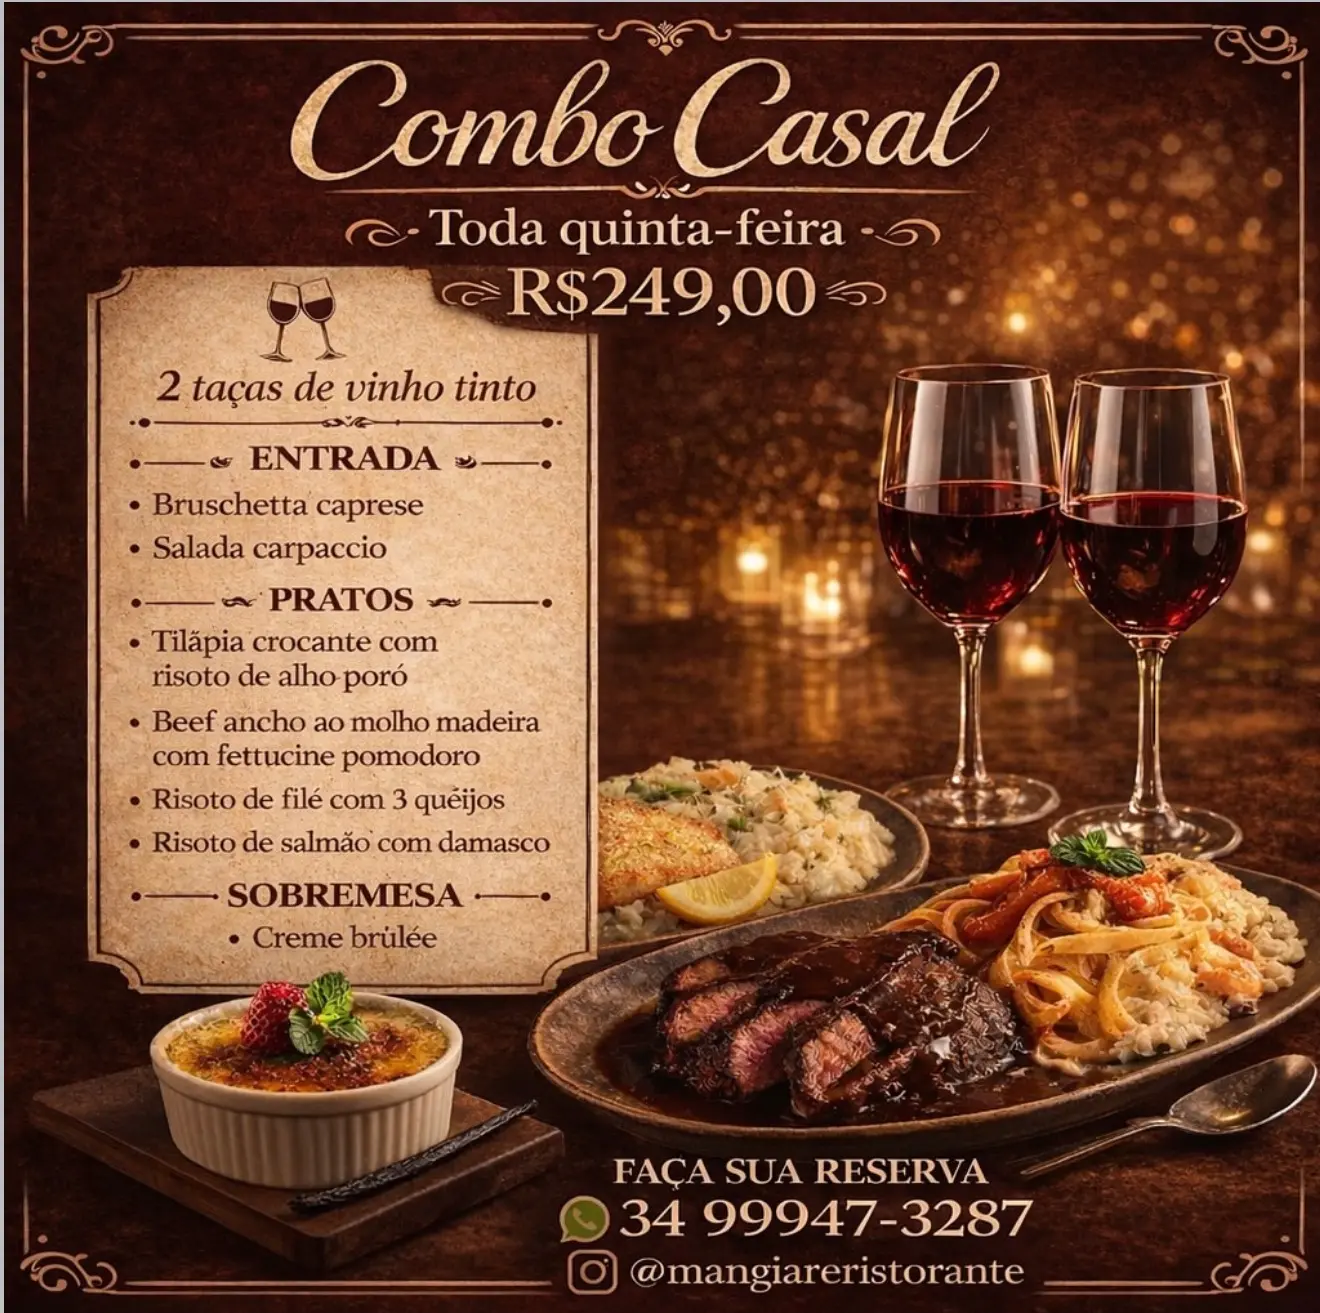
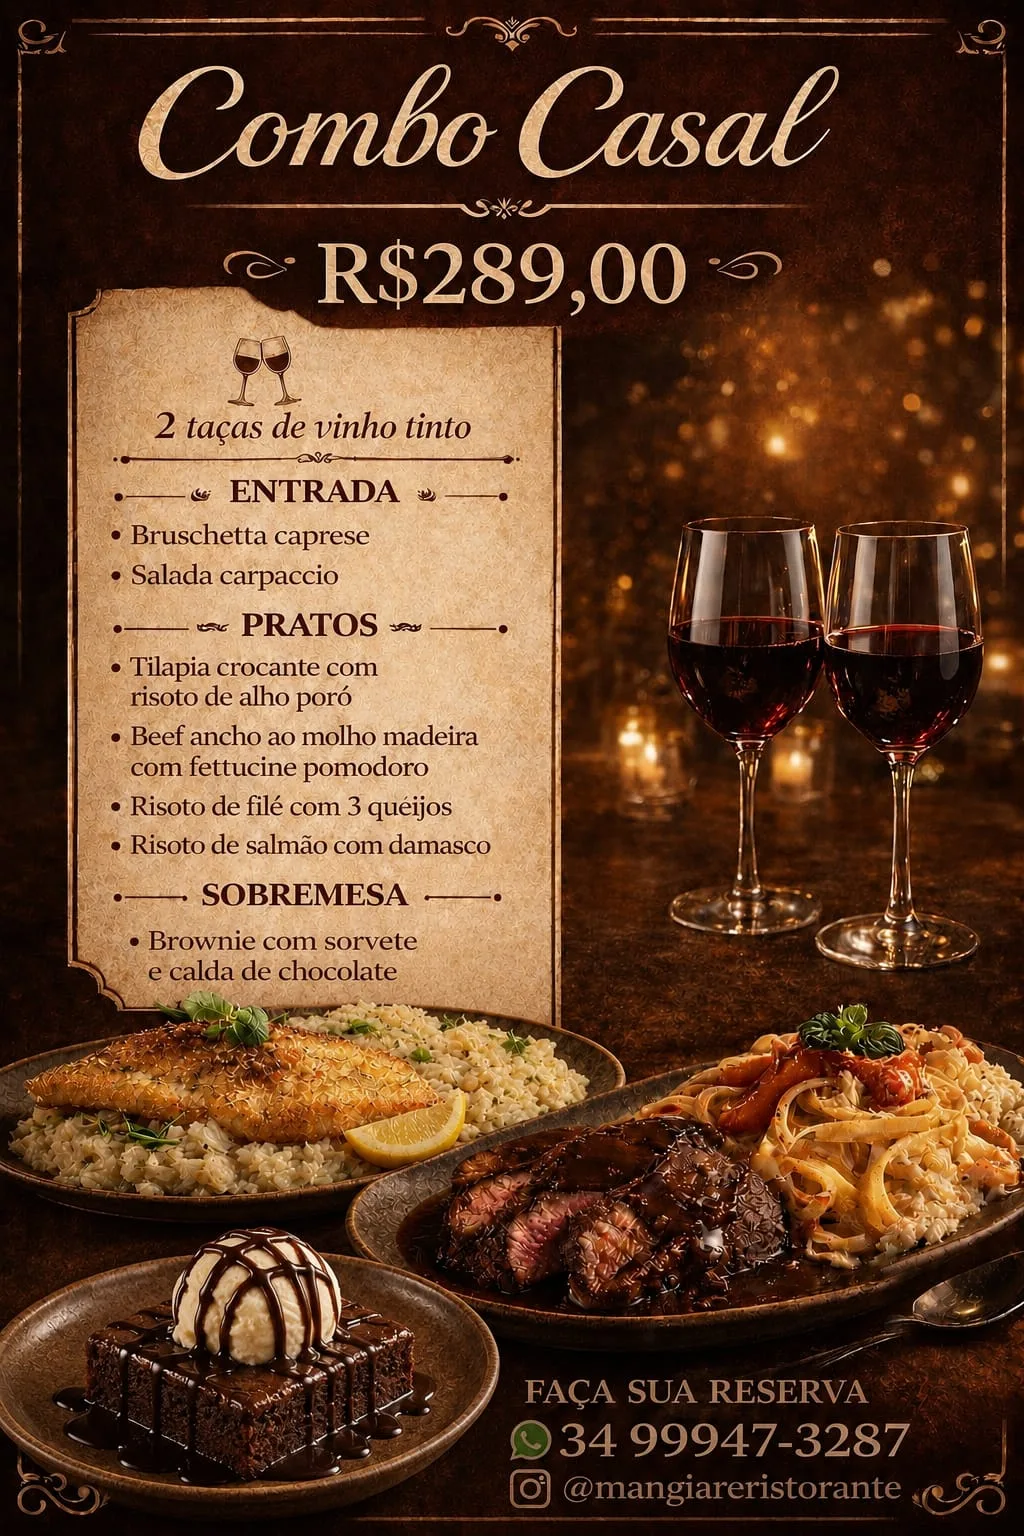
fix: corrigir promocoes conforme cartazes novos do Sergio
- Festival de Camarao: R$ 139,00 -> R$ 149,90 por pessoa
- Combo Casal: R$ 249,00 -> R$ 289,00
- Combo Casal: sobremesa mudou de creme brulee para brownie com sorvete
- Cartazes CAMARAO1/QUARTA/CASAL trocados pelas artes novas
- promo-card-img alinhado pelo topo: cartaz vertical nao corta mais o preco

Claude-Session: https://claude.ai/code/session_01UqP7nSxeVp1PRZ3z7thzFU

diff --git a/index.html b/index.html
@@ -173,7 +173,7 @@
 <section id="galeria" class="carousel-section">
   <div class="carousel-wrap" id="carouselWrap">
     <div class="carousel-slide"><img loading="lazy" src="JANTAR.webp" alt="Massa ao molho com filé e cogumelos, na chamada Jantar Romântico: o Mangiare é o cenário ideal"><div class="carousel-caption"><div class="carousel-caption-title">Jantar Romântico</div></div></div>
-    <div class="carousel-slide"><img loading="lazy" src="CAMARAO1.webp" alt="Cartaz da Quarta do Camarão: Festival de Camarões do Chef, menu completo por 139 reais por pessoa, toda quarta, com entrada, prato principal à escolha e sobremesa de cortesia"><div class="carousel-caption"><div class="carousel-caption-title">Festival de Camarões</div></div></div>
+    <div class="carousel-slide"><img loading="lazy" src="CAMARAO1.webp" alt="Cartaz da Quarta do Camarão: Festival de Camarões do Chef, menu completo por 149 reais e 90 centavos por pessoa, toda quarta, com entrada, prato principal à escolha e sobremesa de cortesia"><div class="carousel-caption"><div class="carousel-caption-title">Festival de Camarões</div></div></div>
     <div class="carousel-slide"><img loading="lazy" src="CARNES.webp" alt="Bife grelhado acompanhado de massa ao molho branco, na chamada Carnes Selecionadas"><div class="carousel-caption"><div class="carousel-caption-title">Mio Mangiare</div></div></div>
     <div class="carousel-slide"><img loading="lazy" src="SABOR.webp" alt="Fettuccine com medalhão de filé, na chamada Sabor da Itália: experiência única"><div class="carousel-caption"><div class="carousel-caption-title">Saborear Momentos</div></div></div>
     <div class="carousel-slide"><img loading="lazy" src="CELEBRE.webp" alt="Taça de vinho tinto sendo servida, na chamada Celebre Momentos: a harmonia perfeita entre pratos e vinhos"><div class="carousel-caption"><div class="carousel-caption-title">Celebre Momentos</div></div></div>
@@ -182,12 +182,12 @@
     <div class="carousel-slide"><img loading="lazy" src="ENCONTRA.webp" alt="Bife ao molho com arroz e batatas, na chamada Onde o sabor encontra a sofisticação"><div class="carousel-caption"><div class="carousel-caption-title">Encontros Especiais</div></div></div>
     <div class="carousel-slide"><img loading="lazy" src="MOMENTOS.webp" alt="Camarões empanados servidos sobre risoto, na chamada Transforme momentos em memórias"><div class="carousel-caption"><div class="carousel-caption-title">Momentos Inesquecíveis</div></div></div>
     <div class="carousel-slide"><img loading="lazy" src="ENCANTA.webp" alt="Carne ao molho com arroz e vinagrete, na chamada Harmonização que encanta"><div class="carousel-caption"><div class="carousel-caption-title">Sabores que Encantam</div></div></div>
-    <div class="carousel-slide"><img loading="lazy" src="QUARTA.webp" alt="Cartaz do Festival de Camarões do Chef: menu completo por 139 reais por pessoa, toda quarta, com entrada, prato principal à escolha e sobremesa"><div class="carousel-caption"><div class="carousel-caption-title">Nossas Quartas</div></div></div>
+    <div class="carousel-slide"><img loading="lazy" src="QUARTA.webp" alt="Cartaz do Festival de Camarões do Chef: menu completo por 149 reais e 90 centavos por pessoa, toda quarta, com entrada, prato principal à escolha e sobremesa"><div class="carousel-caption"><div class="carousel-caption-title">Nossas Quartas</div></div></div>
     <div class="carousel-slide"><img loading="lazy" src="CONFRATERNIZACAO.webp" alt="Cartaz Faça sua confraternização no Mangiare, a partir de 129 reais e 90 centavos por pessoa"><div class="carousel-caption"><div class="carousel-caption-title">Confraternize conosco</div></div></div>
     <div class="carousel-slide"><img loading="lazy" src="SIMPLES.webp" alt="Risoto com camarões e tomatinhos, na chamada Simplesmente irresistível: o equilíbrio perfeito de sabores"><div class="carousel-caption"><div class="carousel-caption-title">Simplesmente Mangiare</div></div></div>
     <div class="carousel-slide"><img loading="lazy" src="NOTAS.webp" alt="Vinho tinto sendo servido na taça, na chamada Notas que elevam a experiência"><div class="carousel-caption"><div class="carousel-caption-title">Notas de Sabor</div></div></div>
 
-    <div class="carousel-slide"><img loading="lazy" src="CASAL.webp" alt="Cartaz do Combo Casal, toda quinta-feira por 249 reais: duas taças de vinho tinto, entrada, prato principal à escolha e creme brûlée de sobremesa"><div class="carousel-caption"><div class="carousel-caption-title">Combo Casal</div></div></div>
+    <div class="carousel-slide"><img loading="lazy" src="CASAL.webp" alt="Cartaz do Combo Casal, toda quinta-feira por 289 reais: duas taças de vinho tinto, entrada, prato principal à escolha e brownie com sorvete e calda de chocolate de sobremesa"><div class="carousel-caption"><div class="carousel-caption-title">Combo Casal</div></div></div>
     <div class="carousel-slide"><img loading="lazy" src="VINHO.webp" alt="Vinho tinto sendo servido na taça, na chamada Sabor da Itália"><div class="carousel-caption"><div class="carousel-caption-title">Carta de Vinhos</div></div></div>
     <div class="carousel-slide"><img loading="lazy" src="PRATO.webp" alt="Filé com risoto, na chamada Mio Mangiare: escolha uma carne e os acompanhamentos como preferir e ganhe entrada e sobremesa"><div class="carousel-caption"><div class="carousel-caption-title">Alta Gastronomia</div></div></div>
     <div class="carousel-slide"><img loading="lazy" src="COMIDA.webp" alt="Filé ao molho madeira com arroz e batatas, na chamada Mio Mangiare, de terça a sábado no jantar e sábado e domingo no almoço"><div class="carousel-caption"><div class="carousel-caption-title">Arte no Prato</div></div></div>
@@ -322,11 +322,11 @@
     <div class="promos-grid">
       <!-- FESTIVAL CAMARÕES -->
       <div class="promo-card rev-r">
-         <img loading="lazy" class="promo-card-img" src="CAMARAO1.webp" alt="Cartaz da Quarta do Camarão: Festival de Camarões do Chef, menu completo por 139 reais por pessoa, toda quarta, com entrada, prato principal à escolha e sobremesa de cortesia">
+         <img loading="lazy" class="promo-card-img" src="CAMARAO1.webp" alt="Cartaz da Quarta do Camarão: Festival de Camarões do Chef, menu completo por 149 reais e 90 centavos por pessoa, toda quarta, com entrada, prato principal à escolha e sobremesa de cortesia">
         <div class="promo-card-body">
           <div class="promo-card-dia"><svg class="ico" aria-hidden="true"><use href="#i-calendario"></use></svg> Toda Quarta-Feira</div>
           <div class="promo-card-title">Festival de Camarões do Chef</div>
-          <div class="promo-card-price">R$ 139,00 <span style="font-size:.7rem;font-family:'Jost',sans-serif;color:rgba(212,196,168,.4);font-weight:300;">/ pessoa</span></div>
+          <div class="promo-card-price">R$ 149,90 <span style="font-size:.7rem;font-family:'Jost',sans-serif;color:rgba(212,196,168,.4);font-weight:300;">/ pessoa</span></div>
           <ul class="promo-card-list">
             <li><strong>Entradas</strong></li>
             <li>Bruschetta de camarão pomodoro</li>
@@ -345,11 +345,11 @@
       </div>
       <!-- COMBO CASAL -->
       <div class="promo-card rev-l">
-        <img loading="lazy" class="promo-card-img" src="CASAL.webp" alt="Cartaz do Combo Casal, toda quinta-feira por 249 reais: duas taças de vinho tinto, entrada, prato principal à escolha e creme brûlée de sobremesa">
+        <img loading="lazy" class="promo-card-img" src="CASAL.webp" alt="Cartaz do Combo Casal, toda quinta-feira por 289 reais: duas taças de vinho tinto, entrada, prato principal à escolha e brownie com sorvete e calda de chocolate de sobremesa">
         <div class="promo-card-body">
           <div class="promo-card-dia"><svg class="ico" aria-hidden="true"><use href="#i-calendario"></use></svg> Toda Quinta-Feira</div>
           <div class="promo-card-title">Combo Casal</div>
-          <div class="promo-card-price">R$ 249,00</div>
+          <div class="promo-card-price">R$ 289,00</div>
           <ul class="promo-card-list">
             <li><strong>Inclui</strong></li>
             <li>2 taças de vinho tinto</li>
@@ -362,7 +362,7 @@
             <li>Risoto de filé com 3 queijos</li>
             <li>Risoto de salmão com damasco</li>
             <li><strong>Sobremesa</strong></li>
-            <li>Creme brûlée</li>
+            <li>Brownie com sorvete e calda de chocolate</li>
           </ul>
           <a href="#reserva" class="btn-primary" style="width:100%;justify-content:center;"><svg class="ico" aria-hidden="true"><use href="#i-vinho"></use></svg> Reservar Agora</a>
         </div>

diff --git a/estilo.css b/estilo.css
@@ -308,7 +308,8 @@ nav.scrolled{box-shadow:0 4px 40px rgba(0,0,0,.5);}
 .promo-card{background:var(--carbone);border:1px solid var(--bordo);position:relative;overflow:hidden;transition:border-color .3s,transform .3s;}
 .promo-card:hover{border-color:var(--bordo-forte);transform:translateY(-4px);}
 .promo-card::before{content:'';position:absolute;top:0;left:0;right:0;height:2px;background:linear-gradient(90deg,var(--rosso),var(--oro));}
-.promo-card-img{width:100%;height:550px;object-fit:cover;object-position:center;filter:brightness(.8) saturate(1.1);display:block;}
+/* Cartazes verticais: alinhar pelo topo, senão o recorte corta o título e o preço. */
+.promo-card-img{width:100%;height:550px;object-fit:cover;object-position:top;filter:brightness(.8) saturate(1.1);display:block;}
 .promo-card-body{padding:2.2rem;}
 .promo-card-dia{font-size:.6rem;letter-spacing:.2em;text-transform:uppercase;color:var(--oro);margin-bottom:.5rem;}
 .promo-card-title{font-family:'Cormorant Garamond',serif;font-size:1.5rem;color:var(--avorio);margin-bottom:.5rem;font-weight:300;}
